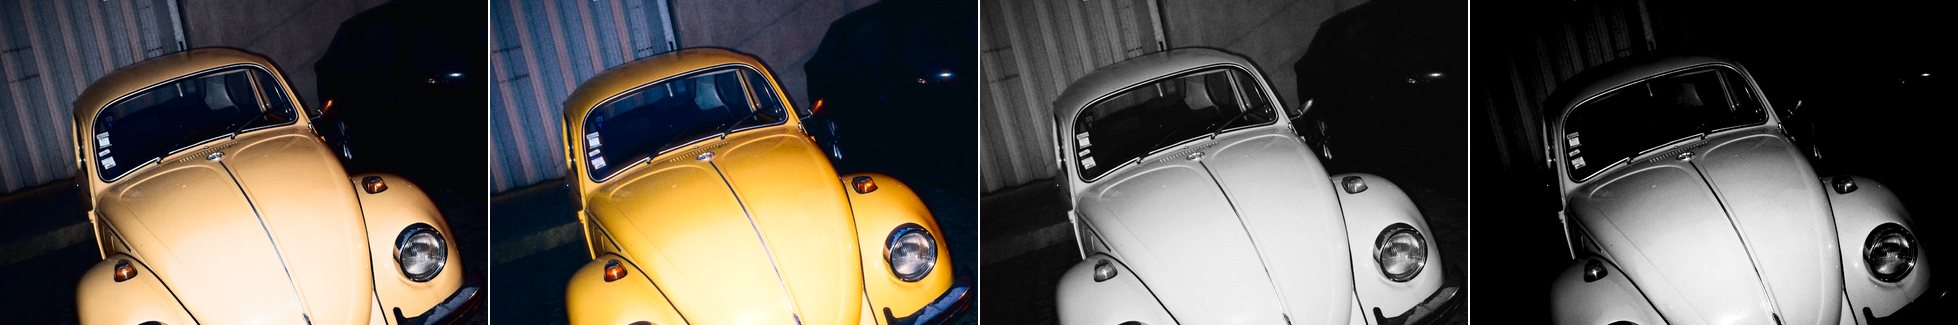
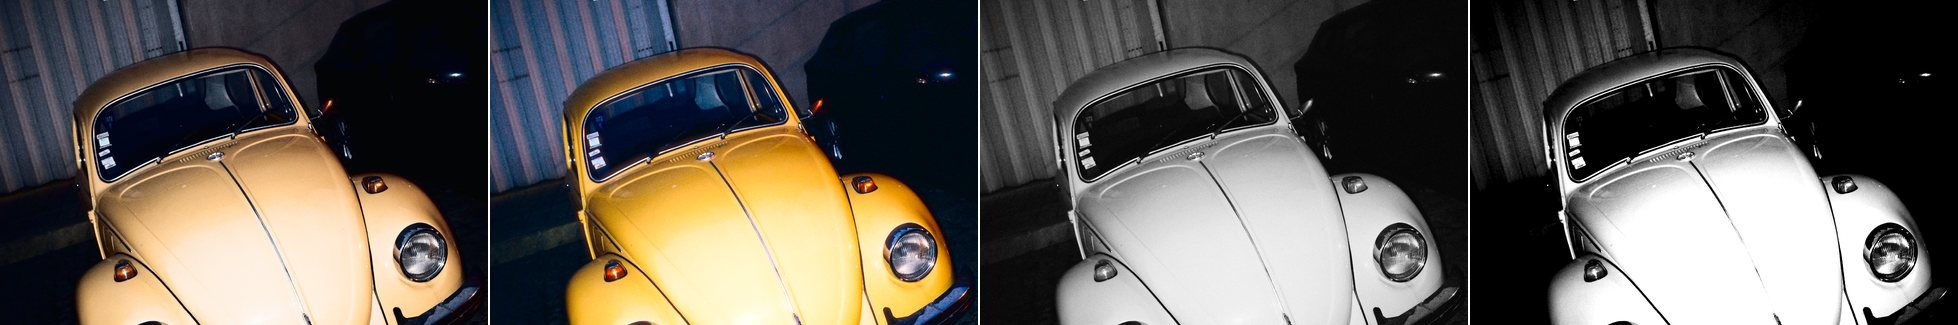
Positive Film: Shinjuku harder and less dark (#26)
Claude-Session: https://claude.ai/code/session_01J6YqKjGeD2YxJN2bGxFHyT

Changed region(s): [[0.7477, 0.0, 0.9969, 1.0]]

diff --git a/assets/js/positive-film/looks.js b/assets/js/positive-film/looks.js
@@ -33,8 +33,8 @@ export const LOOKS = [
    vignette:{stops:0.3}},
   {id:'shinjuku', name:'Shinjuku', kind:'mono',
    blurb:'After Daido Moriyama. Pushed film on hard paper: deep blacks, blown whites, heavy grain, dark edges.',
-   mix:[0.27,0.60,0.13], autoEv:true, ev:-0.45, tone:{lo:0, span:100, k:1.75, s0:0.1, stretch:[10,95]},
-   vignette:{stops:1.1}},
+   mix:[0.27,0.60,0.13], autoEv:true, ev:0, tone:{lo:0, span:100, k:2.3, s0:0, stretch:[6,90]},
+   vignette:{stops:0.75}},
 ];
 export const lookById = id => LOOKS.find(l => l.id === id) || LOOKS[0];
 export const hasGrain = l => !!STOCKS[l.id];
